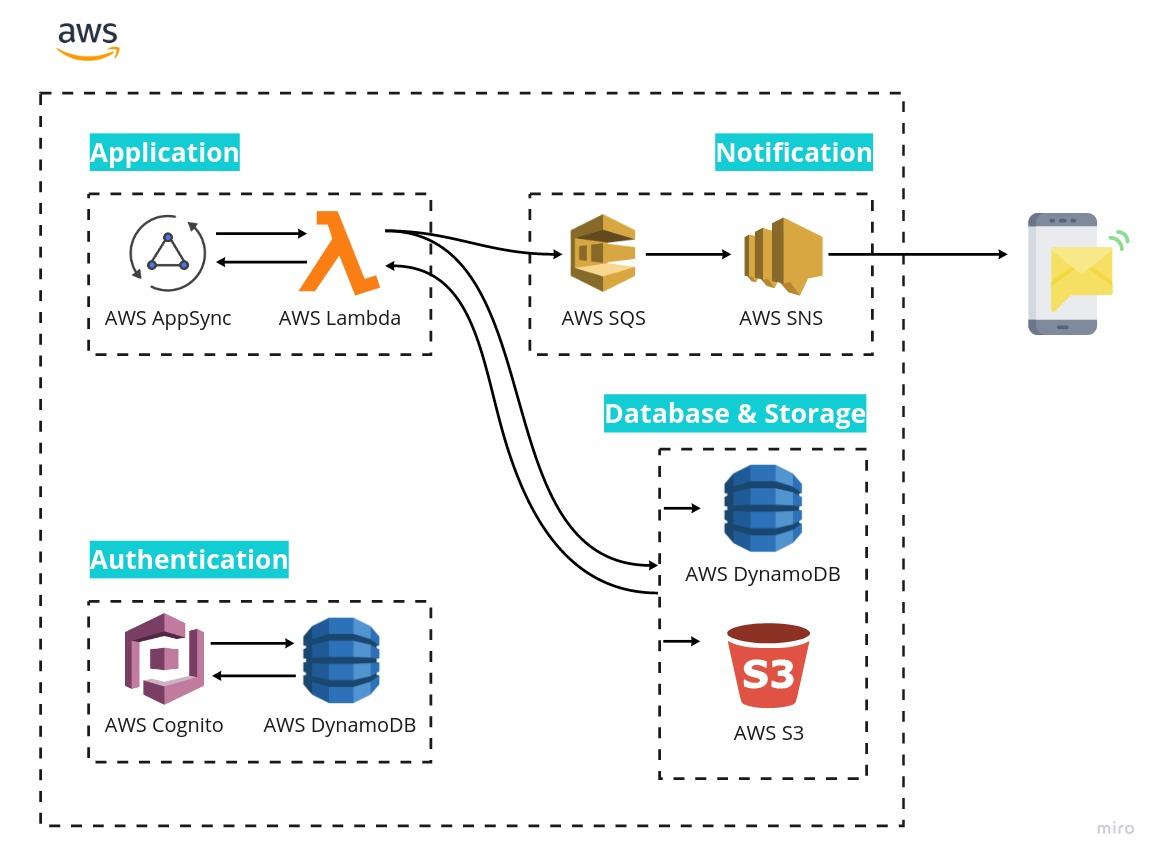
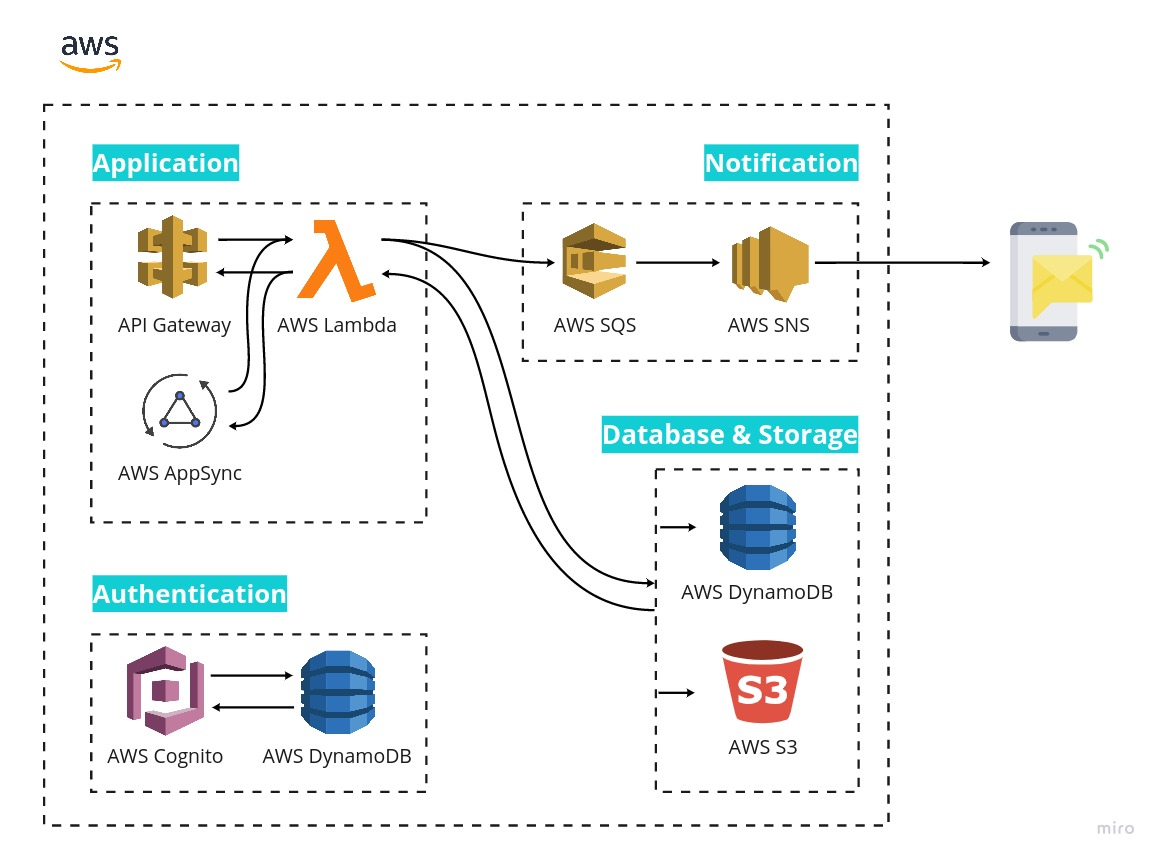
feat: update readme

diff --git a/readme.md b/readme.md
@@ -8,3 +8,22 @@ Na parte do backend foi criada toda uma infraestutura serverless na aws se ultil
 ![Arquitetura backend](backend.jpg)
 
 
+## Rodando 🔥🔥
+
+O projeto precisa de alguns requisitos para funcionar, então o primeiro passo é instalar as libs necessárias para fazer o projeto fucionar, você pode fazer isso seguindo os links abaixo.
+
+1. [AWS cli](https://docs.aws.amazon.com/cli/latest/userguide/install-cliv2.html)
+2. [Serverless framework](https://www.serverless.com/framework/docs/providers/aws/guide/installation/)
+3. [Configuração do serverless](https://www.serverless.com/framework/docs/providers/aws/guide/credentials/)
+
+Após a instalação a configuração dos serviços na sua máquina, bastar rodar o seguinte comando na pasta root do projeto:
+
+```
+sls deploy
+```
+
+Esse comnando vai fazer com que a infraestrutura necessária seja criada na aws, que são as APis e o serviços externos ultilizados. 
+
+Após isso ao acessar o painel da lambda na sua conta da aws ja será possível encontrar os lambdas que foram criados, para garantir que eles vão funcionar é adicionar as variáveis de ambiente o nome da tabela que deve ser usada no dynamo. 
+
+E pronto, a infraestutura ja está pronta para ser usada, ela provém uma api rest mas também uma api em graphql que foi usada para a comunicação com o frontend.
